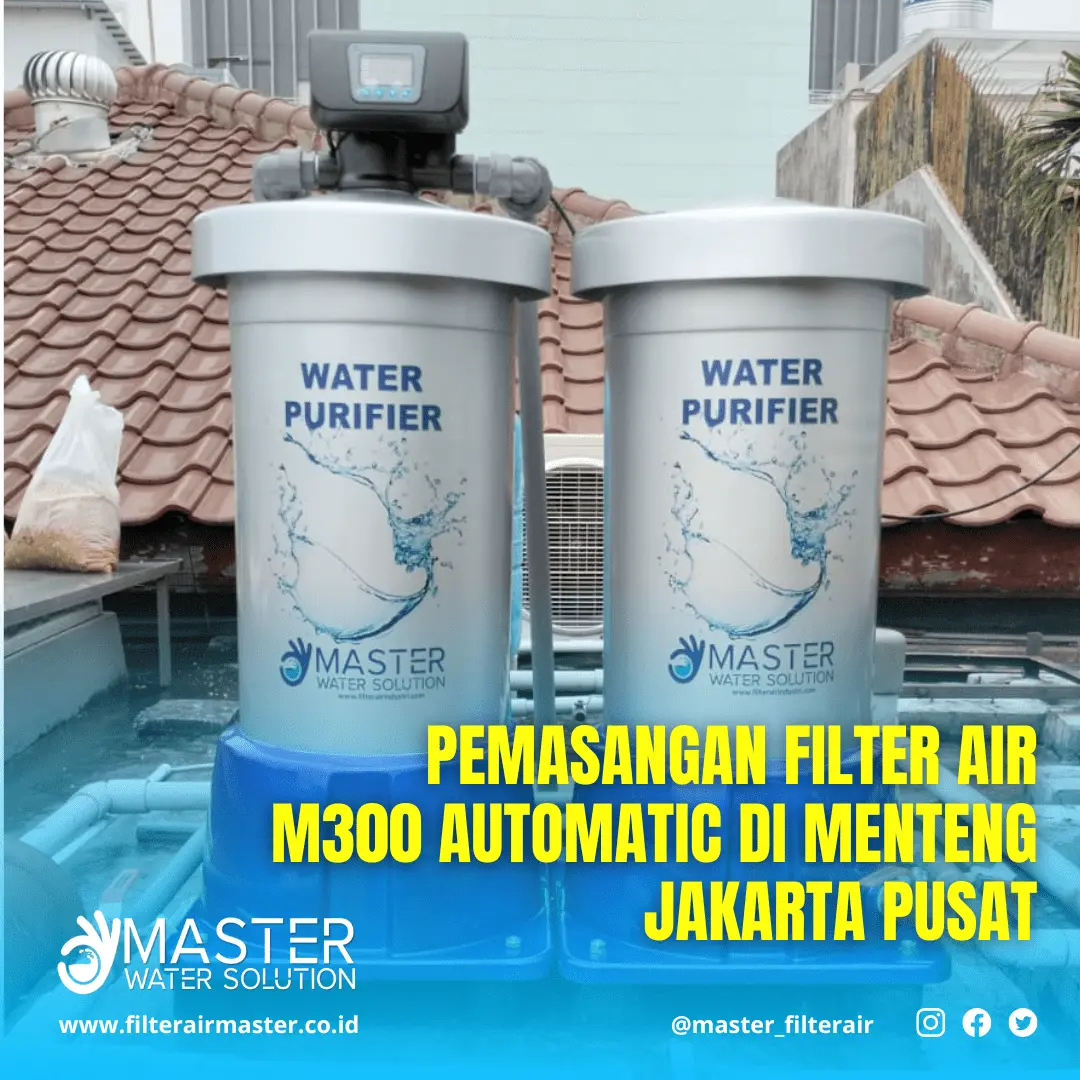
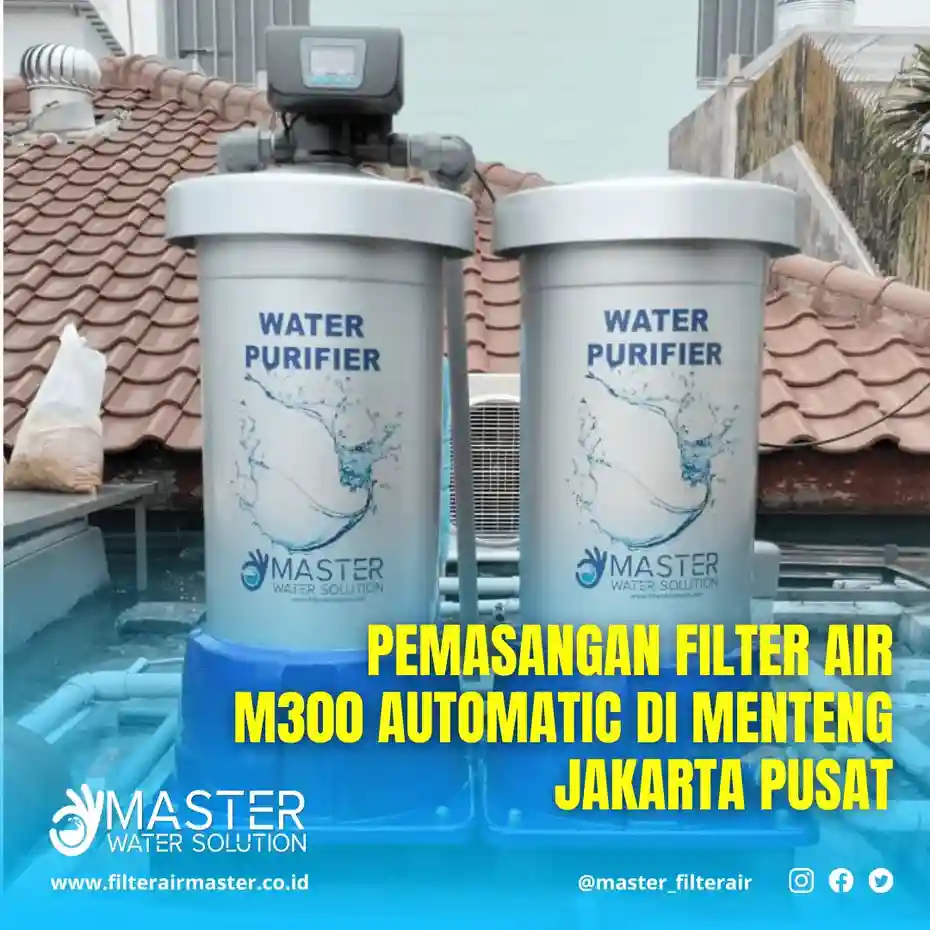
update

diff --git a/filter-air/filter-air-keruh/index.html b/filter-air/filter-air-keruh/index.html
@@ -367,7 +367,14 @@
     </ul>
     <p>Dilengkapi sistem <strong>backwash otomatis</strong> yang bekerja terjadwal, filter ini sangat cocok untuk pengguna rumah tangga yang menginginkan hasil maksimal dengan perawatan minimal.</p>
     <div class="text-center my-4">
-      <img src="https://filterairmaster.co.id/filter-air/assets/img/latest-news/pemasangan-filter-air-m-m300-automatic-di-menteng-jakarta-pusat.webp" alt="Pemasangan Filter Air M300 Automatic di Menteng Jakarta - Air Kuning dan Keruh Teratasi" width="100%" loading="lazy">
+<img 
+  src="https://filterairmaster.co.id/filter-air/assets/img/latest-news/pemasangan-filter-air-m-m300-automatic-di-menteng-jakarta-pusat.webp" 
+  alt="Pemasangan Filter Air M300 Automatic di Menteng Jakarta – Solusi Air Kuning dan Keruh" 
+  width="100%" 
+  loading="lazy" 
+  decoding="async" 
+  class="img-fluid" 
+  style="object-fit: cover;">
       <small>Dokumentasi pemasangan Filter Air M300 Automatic di Menteng, Jakarta Pusat</small>
     </div>
 
